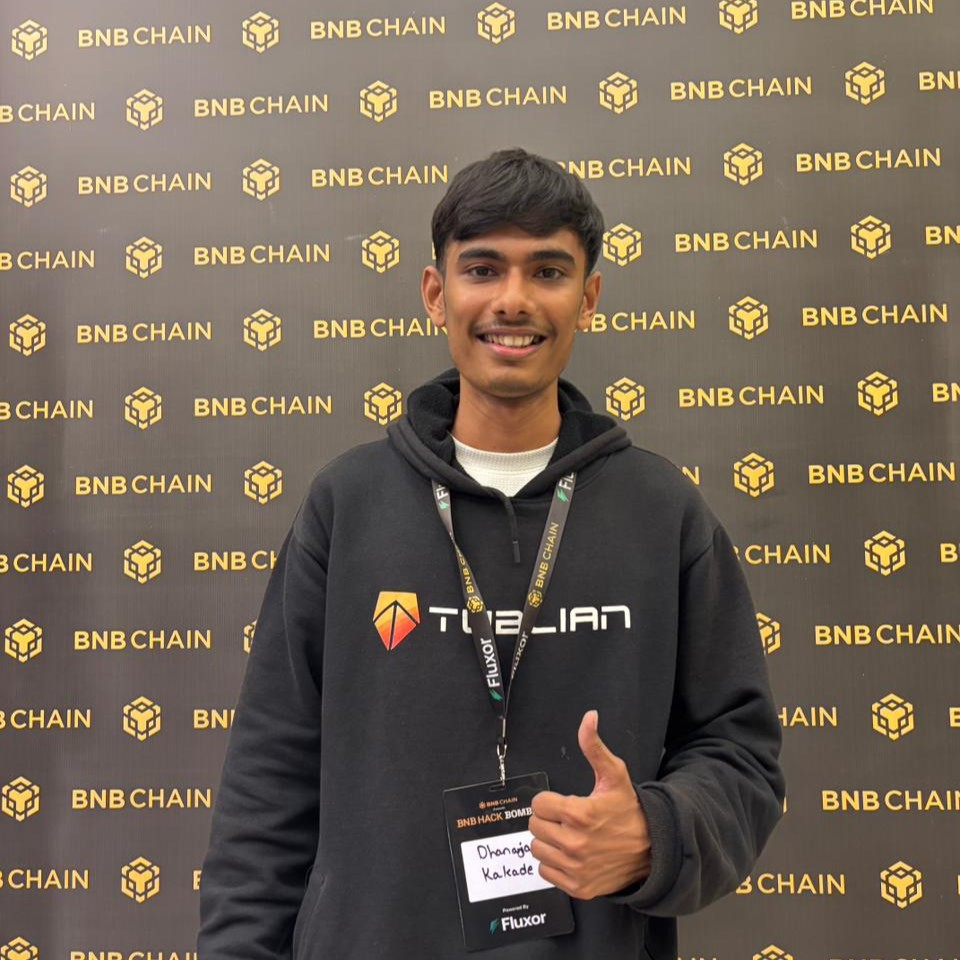
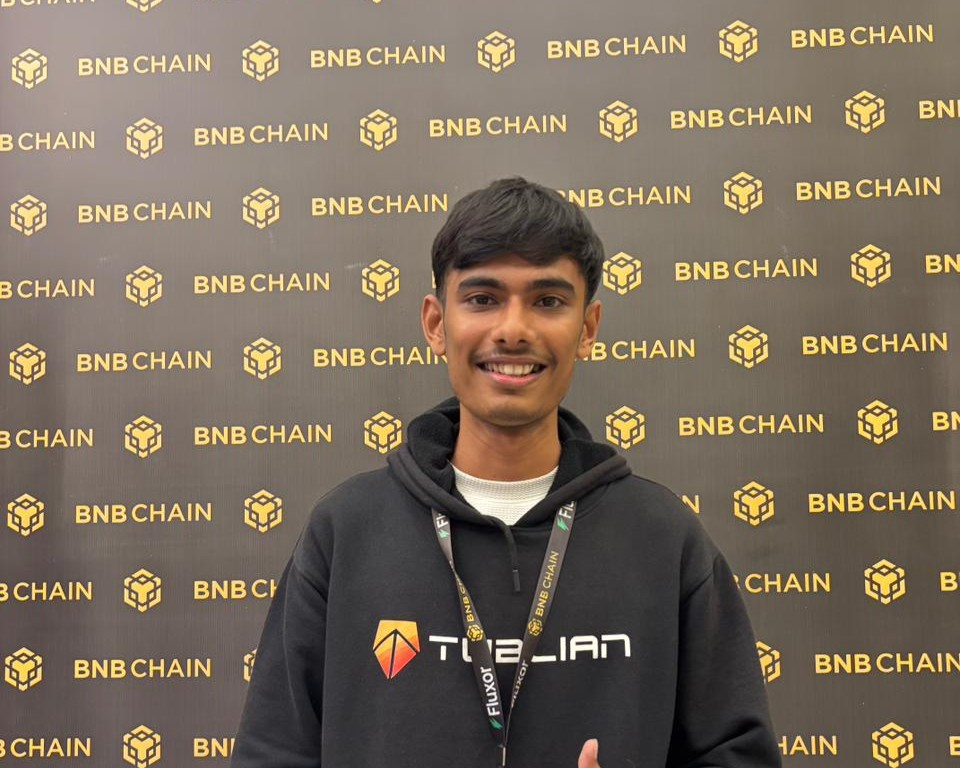
Founders photo update...

diff --git a/components/founders.tsx b/components/founders.tsx
@@ -46,7 +46,7 @@ export default function Founders() {
               className="group bg-background rounded-xl overflow-hidden border border-border shadow-sm hover:shadow-md transition-all duration-300"
             >
               {/* Image Container */}
-              <div className="relative h-72 overflow-hidden bg-gradient-to-br from-secondary to-secondary/50">
+              <div className="relative h-64 overflow-hidden bg-gradient-to-br from-secondary to-secondary/50">
                 <Image
                   src={founder.image}
                   alt={founder.name}
@@ -54,8 +54,7 @@ export default function Founders() {
                   sizes="(max-width: 768px) 100vw, (max-width: 1200px) 33vw"
                   priority={founder.id === 1}
                   quality={90}
-                  className="object-contain object-center group-hover:scale-105 transition-transform duration-300"
-                  style={{ objectPosition: '50% 20%' }}
+                  className="object-cover group-hover:scale-105 transition-transform duration-300"
                   placeholder="blur"
[1 lines of base64/hex data omitted]
                   onError={(e) => {
